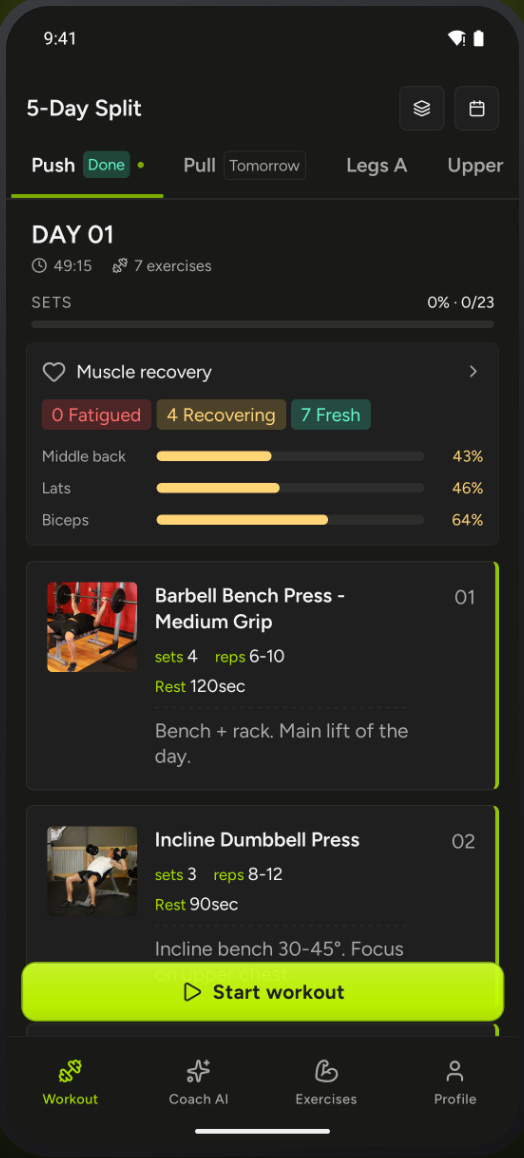
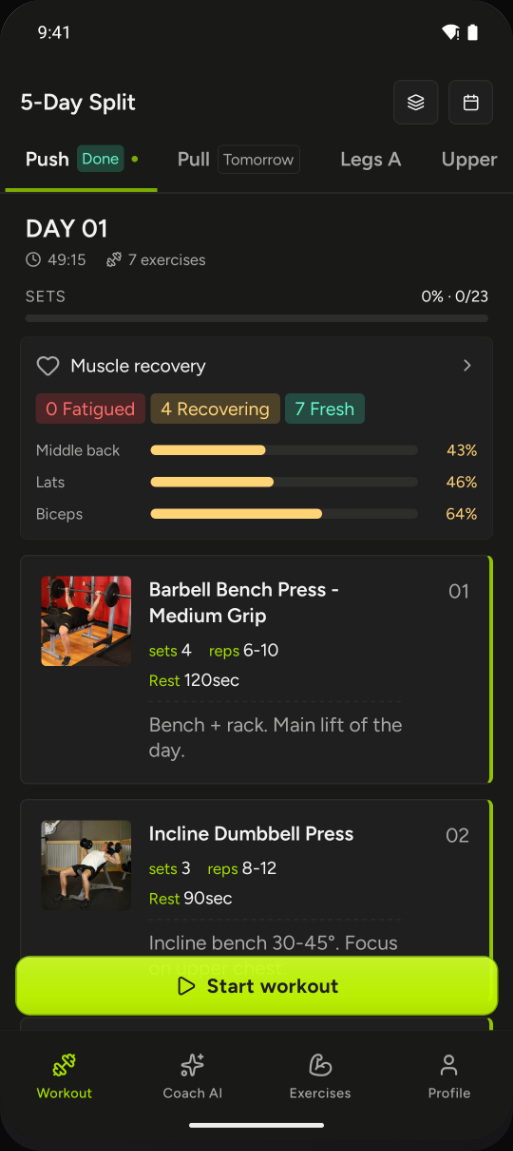
Crop the app screenshots to the screen, with rounded corners
The crop boxes were eyeballed, so they included a few pixels of handset
bezel and, in the corners, the backdrop the screenshot was taken on —
an olive sliver on HeavyMuscle, a teal one on Remote Work, both visible
against square corners.

Measured the actual screen bounds off the pixels instead: Remote Work
666x1480 from (207,403), HeavyMuscle 513x1151 from (284,498). Each is
masked to the handset's own corner radius and flattened onto the page
ink, so the corners disappear into the background rather than ending in
a square edge. Aspect ratios updated to match.

diff --git a/content/work/heavy-muscle.ts b/content/work/heavy-muscle.ts
@@ -50,7 +50,7 @@ export const heavyMuscle: WorkEntry = {
         src: "/work/heavy-muscle/day.jpg",
         alt: "HeavyMuscle training day: a five-day split with the current day expanded, muscle recovery per muscle group, and each exercise carrying its sets, reps, rest and a coaching note",
         caption: "Recovery state sits above the work it explains",
-        aspect: "524/1158",
+        aspect: "513/1151",
       },
     },
     {
@@ -60,7 +60,7 @@ export const heavyMuscle: WorkEntry = {
         src: "/work/heavy-muscle/coach.jpg",
         alt: "HeavyMuscle AI coach in builder mode: a request for a knee-friendly session, and the generated plan listed day by day with sets and reps, waiting to be saved",
         caption: "Builder mode — the plan is proposed, then saved",
-        aspect: "524/1158",
+        aspect: "513/1151",
       },
     },
     {
@@ -70,7 +70,7 @@ export const heavyMuscle: WorkEntry = {
         src: "/work/heavy-muscle/library.jpg",
         alt: "HeavyMuscle exercise library: a searchable list grouped by difficulty, each exercise tagged with its muscle group and the equipment it needs",
         caption: "The library, filtered by equipment and level",
-        aspect: "524/1158",
+        aspect: "513/1151",
       },
     },
   ],
@@ -85,7 +85,7 @@ export const heavyMuscle: WorkEntry = {
       src: "/work/heavy-muscle/session.jpg",
       alt: "HeavyMuscle live session: elapsed and remaining time, sets completed and calories pinned at the top, each set logged as weight by reps with a confirm circle, and swap, skip, rest and notes controls under the exercise",
       caption: "Mid-session — weight by reps, one tap to confirm",
-      aspect: "524/1158",
+      aspect: "513/1151",
     },
   },
 

diff --git a/content/work/remote-work.ts b/content/work/remote-work.ts
@@ -50,7 +50,7 @@ export const remoteWork: WorkEntry = {
         src: "/work/remote-work/jobs.jpg",
         alt: "Remote Work job list: each card carries the role, company and date, with a save action, an overflow menu, and an Applied marker once you have applied",
         caption: "Applied state sits on the card, so you never apply twice",
-        aspect: "682/1490",
+        aspect: "666/1480",
       },
     },
     {
@@ -60,7 +60,7 @@ export const remoteWork: WorkEntry = {
         src: "/work/remote-work/applications.jpg",
         alt: "Remote Work application tracker: two applications, each with applied, interviewing, offer and rejected stages, dated, with a notes field",
         caption: "Each stage dated, so the history is the status",
-        aspect: "682/1490",
+        aspect: "666/1480",
       },
     },
     {
@@ -70,7 +70,7 @@ export const remoteWork: WorkEntry = {
         src: "/work/remote-work/filters.jpg",
         alt: "Remote Work filter sheet: filter by date posted, by applied status, and by tag, with tags like remote work and digital nomad selected",
         caption: "Filters by date, applied status and tag",
-        aspect: "682/1490",
+        aspect: "666/1480",
       },
     },
   ],
@@ -85,7 +85,7 @@ export const remoteWork: WorkEntry = {
       src: "/work/remote-work/resume.jpg",
       alt: "Remote Work CV builder: tabs for personal info, experience, education, skills and languages, a form with name, title and email filled in, and save and export actions",
       caption: "Built and exported without leaving the app",
-      aspect: "682/1490",
+      aspect: "666/1480",
     },
   },
 
